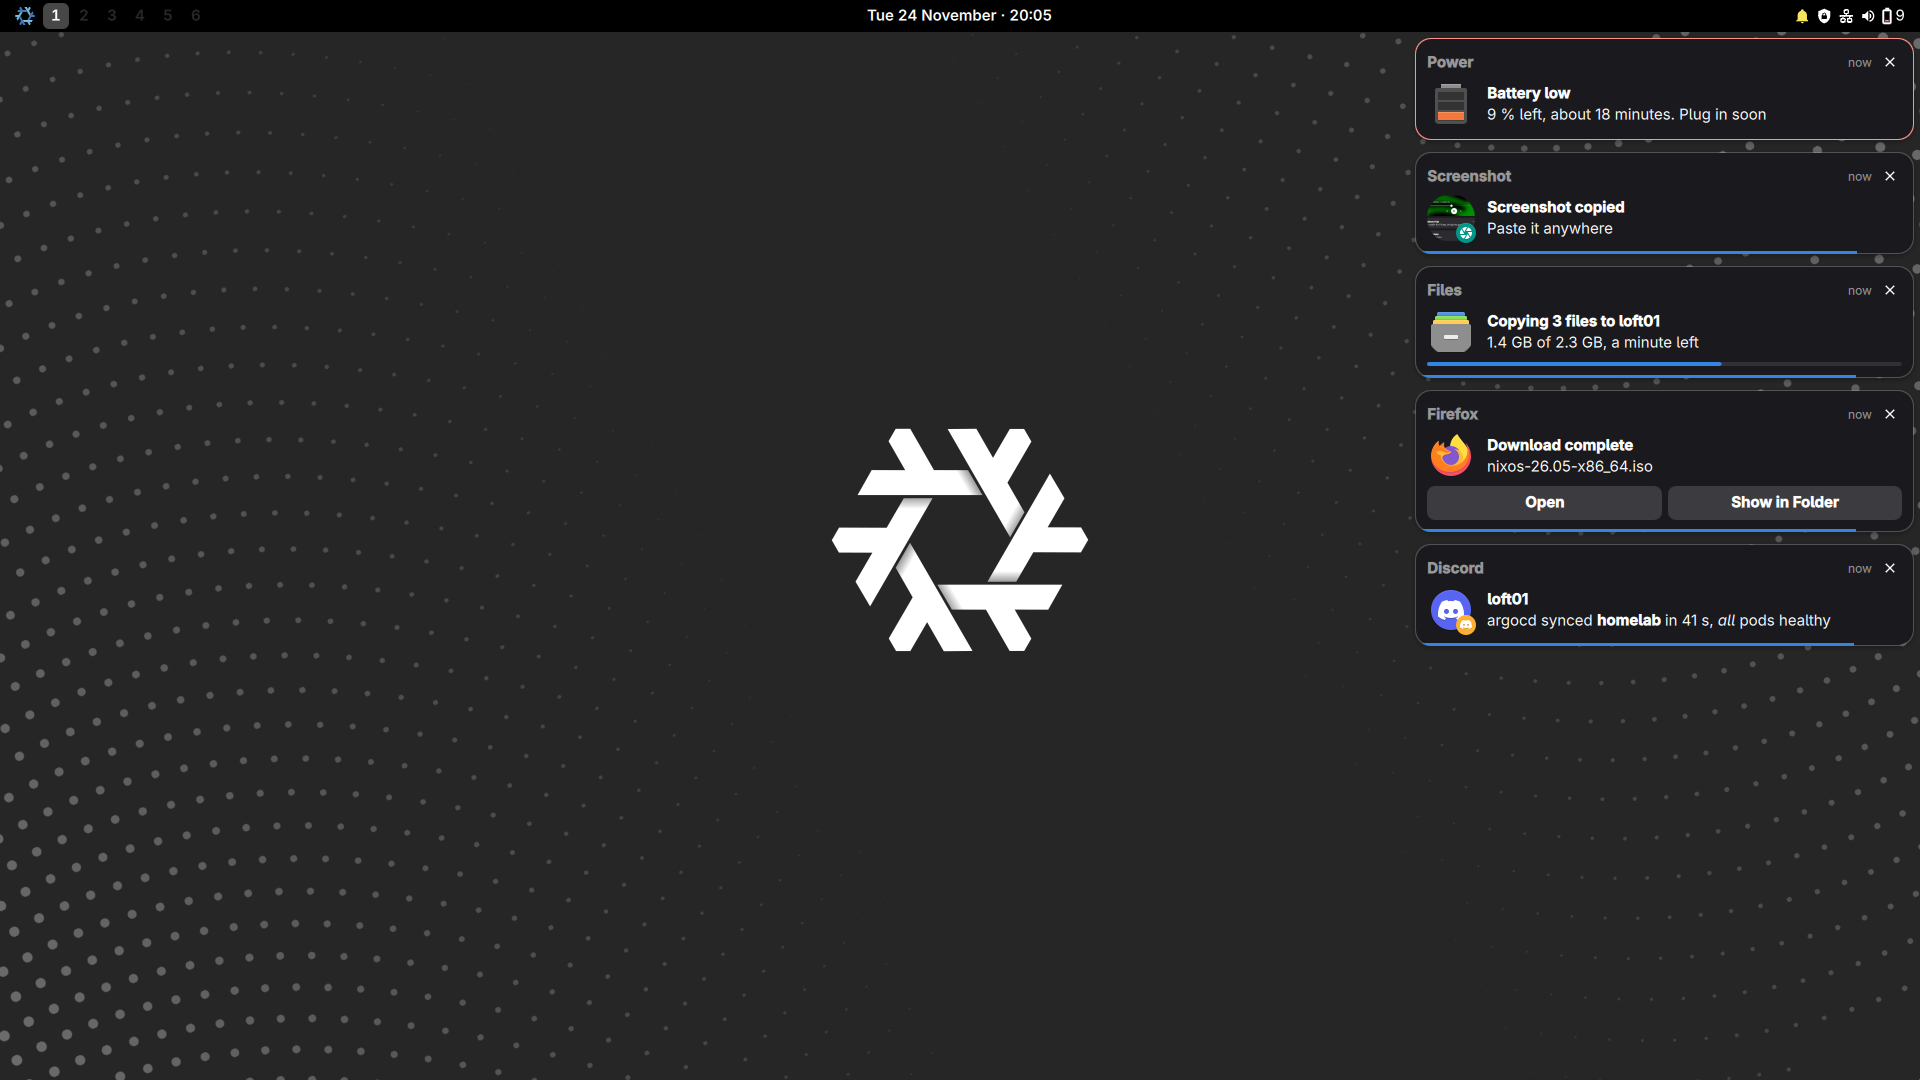
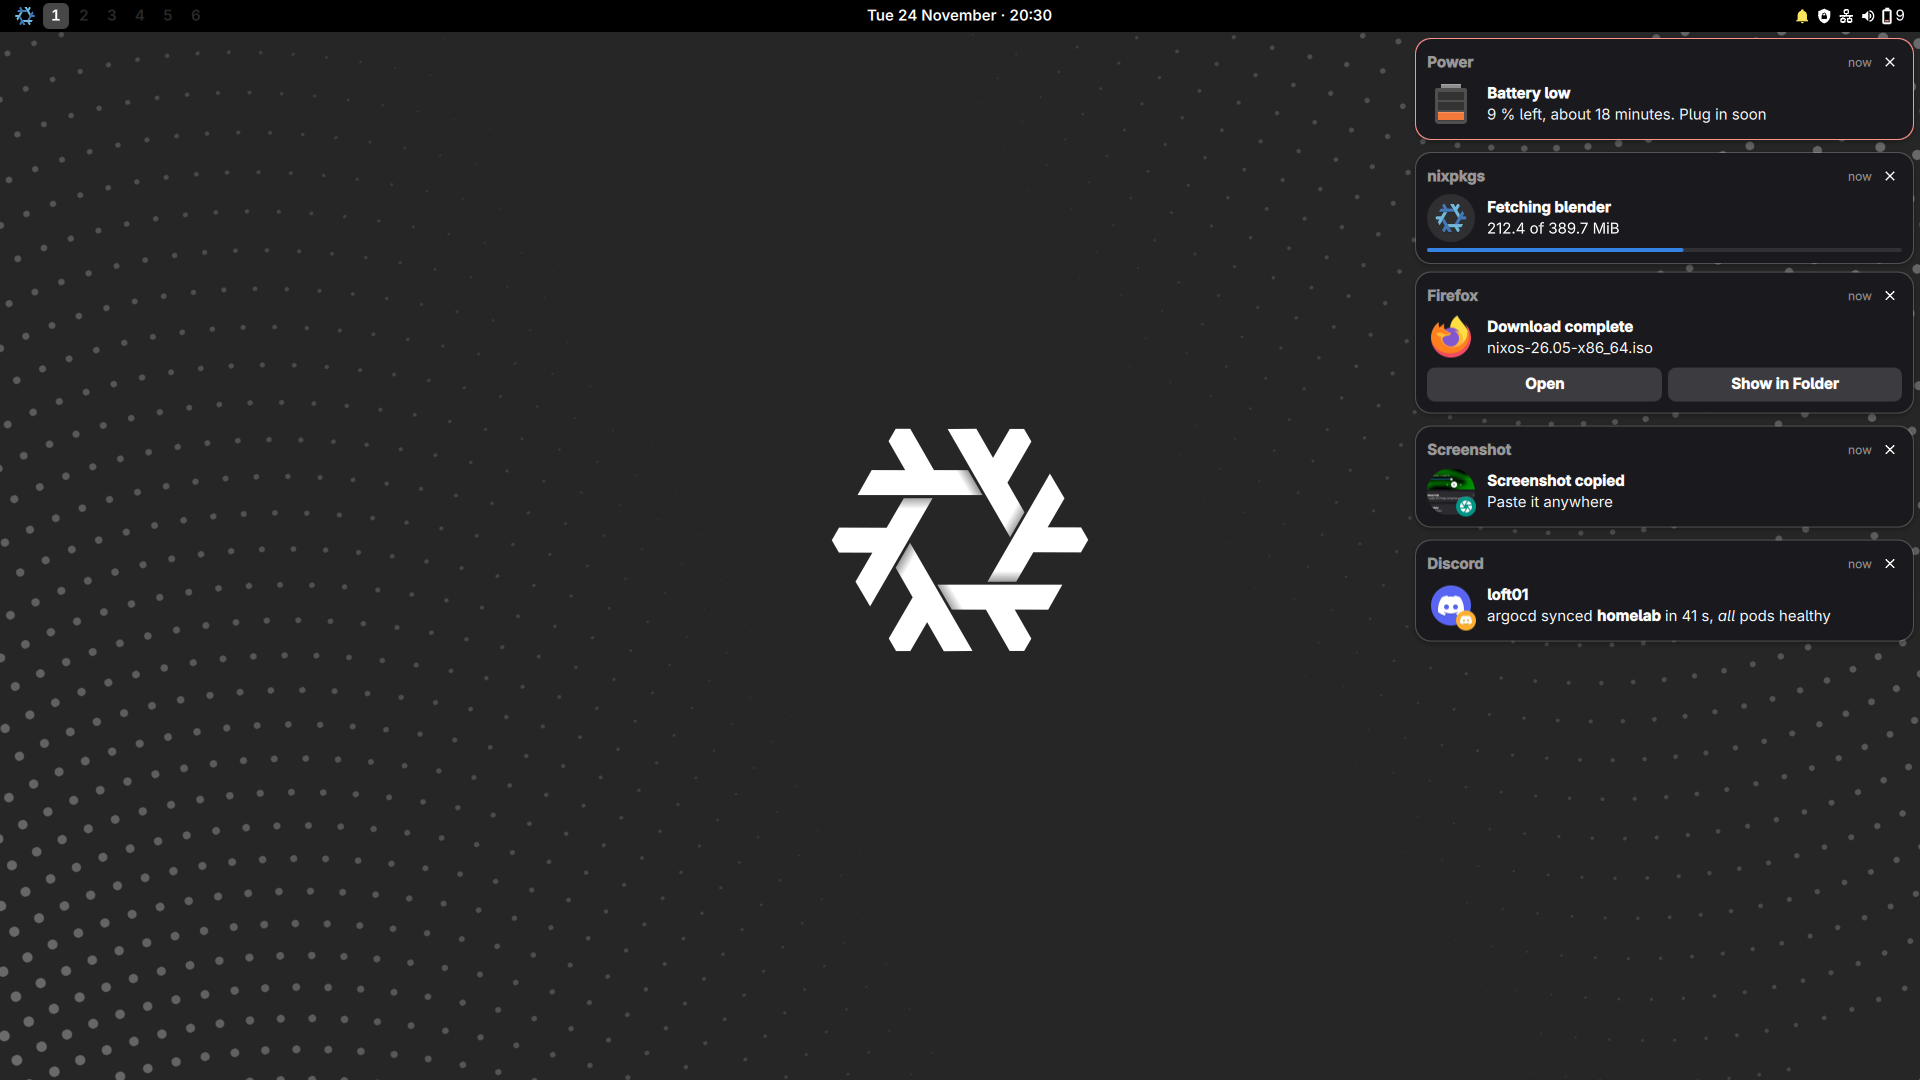
feat(hyprland): drop the timeout bar under notification popups
It told little a banner's age does not, and beside a progress bar it
read as a second one. The countdown itself stays: it still times the
popup out and holds while the pointer is on it.

The gallery's popups now show nixpkgs-run's card fetching a package.

Changed region(s): [[0.7188, 0.1528, 1.0, 0.6111]]

diff --git a/modules/features/hyprland/quickshell/notifications/NotificationCard.qml b/modules/features/hyprland/quickshell/notifications/NotificationCard.qml
@@ -2,7 +2,6 @@ pragma ComponentBehavior: Bound
 
 import QtQuick
 import QtQuick.Layouts
-import Quickshell.Widgets
 import qs.common
 import qs.nix
 
@@ -64,20 +63,6 @@ Item {
       NumberAnimation {
         duration: Theme.popupTime
         easing.type: Easing.OutQuad
-      }
-    }
-
-    ClippingRectangle {
-      anchors.fill: parent
-      radius: card.radius
-      color: "transparent"
-      visible: root.entry.timeout > 0
-
-      Rectangle {
-        anchors.bottom: parent.bottom
-        width: parent.width * root.entry.remaining
-        height: 3
-        color: Theme.accentBg
       }
     }
 

diff --git a/modules/features/hyprland/quickshell/notifications/NotifEntry.qml b/modules/features/hyprland/quickshell/notifications/NotifEntry.qml
@@ -98,7 +98,7 @@ QtObject {
     locked: true
   }
 
-  // The share of the timeout left, which the popup's bar shows; paused while unseen or under the pointer, so it carries on after.
+  // The share of the timeout left; paused while unseen or under the pointer, so it carries on after.
   property real remaining: 1
   property NumberAnimation countdown: NumberAnimation {
     target: root

diff --git a/README.md b/README.md
@@ -33,7 +33,7 @@ NetworkManager, BlueZ, UPower and MPRIS services.
 | | |
 | --- | --- |
 | ![Date menu with a player, notifications, calendar and weather](docs/gallery/center.png) | ![Notification popups](docs/gallery/notifications.png) |
-| Date menu: player, notifications grouped per app, calendar, MET Norway weather | Notification popups: critical, buttons, progress, pictures, markup |
+| Date menu: player, notifications grouped per app, calendar, MET Norway weather | Notification popups: critical, nixpkgs (SUPER+N) fetching a package, buttons, pictures, markup |
 | ![Quick settings with the Wi-Fi menu open](docs/gallery/controls.png) | ![Quick settings with the Bluetooth menu open](docs/gallery/bluetooth.png) |
 | Quick settings (SUPER+A), Wi-Fi | Quick settings, Bluetooth |
 | ![App launcher](docs/gallery/launcher.png) | ![Clipboard history](docs/gallery/clipboard.png) |
